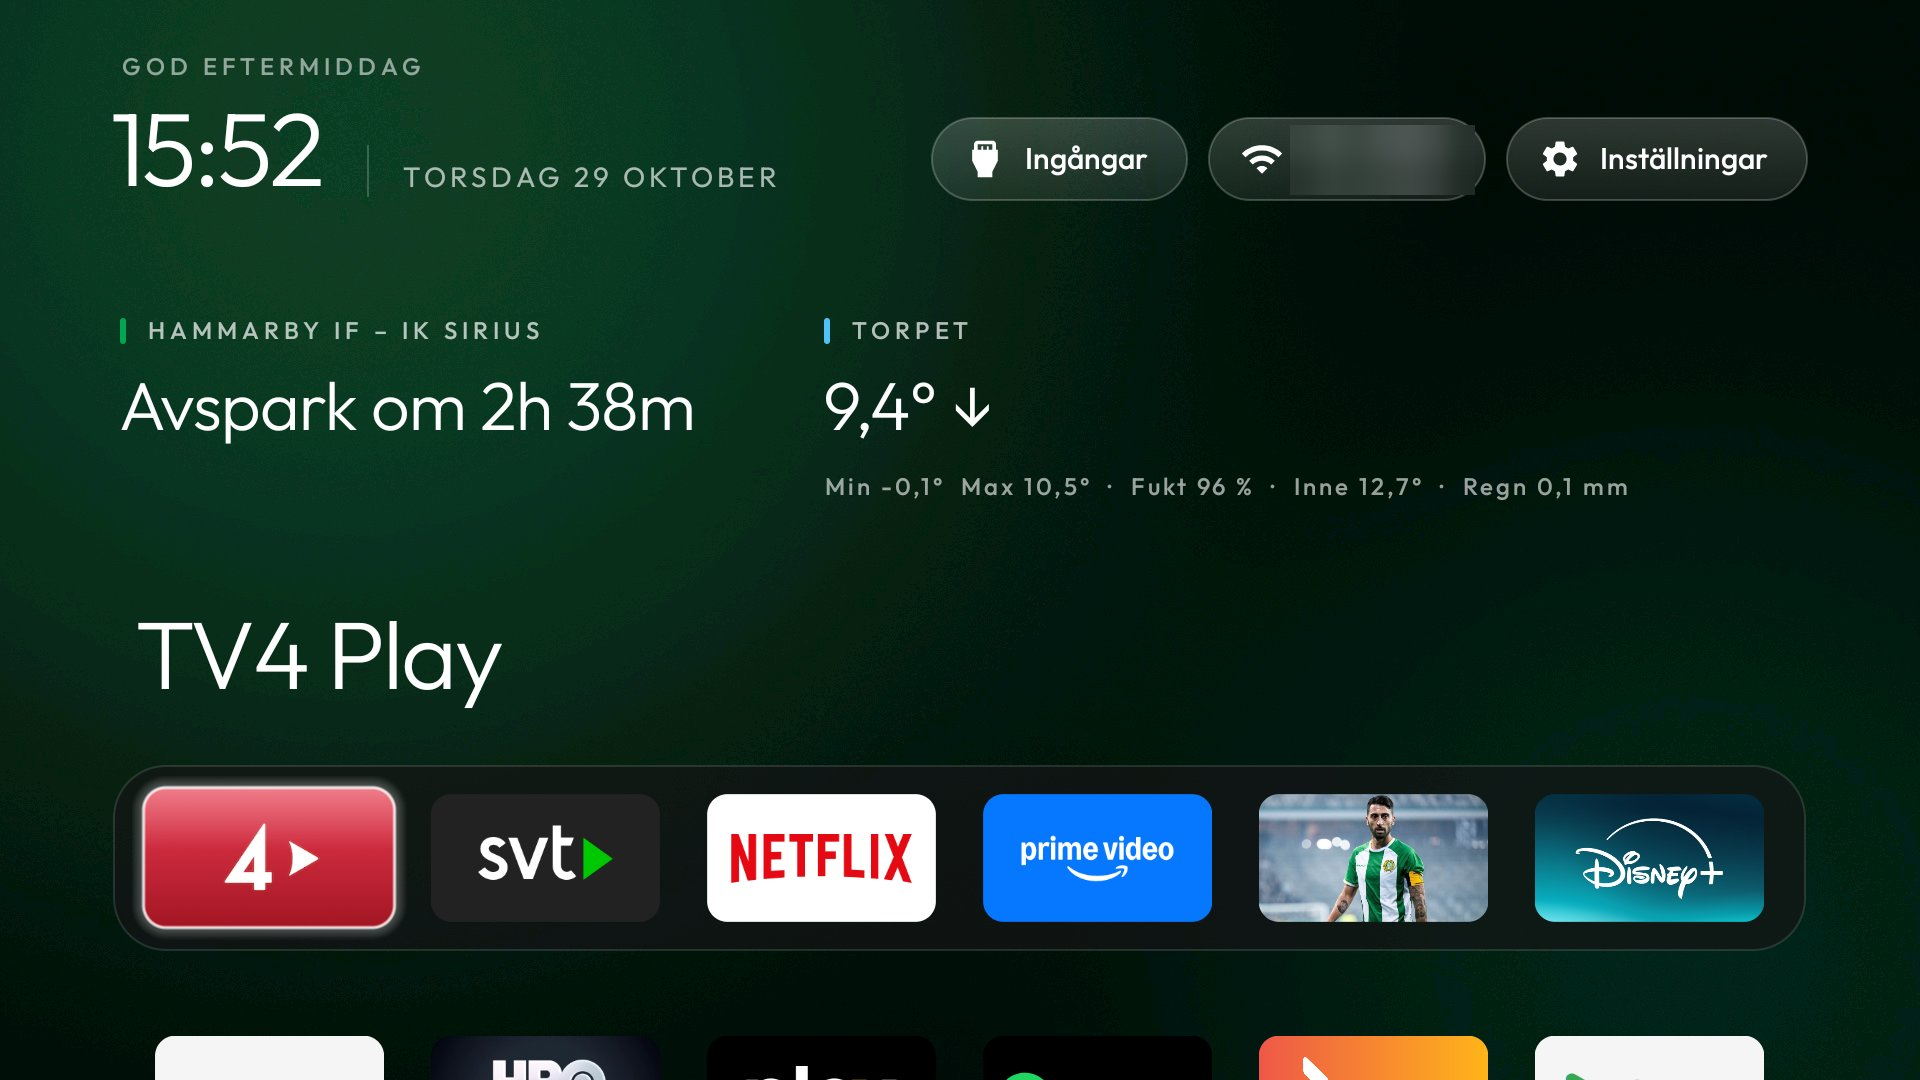
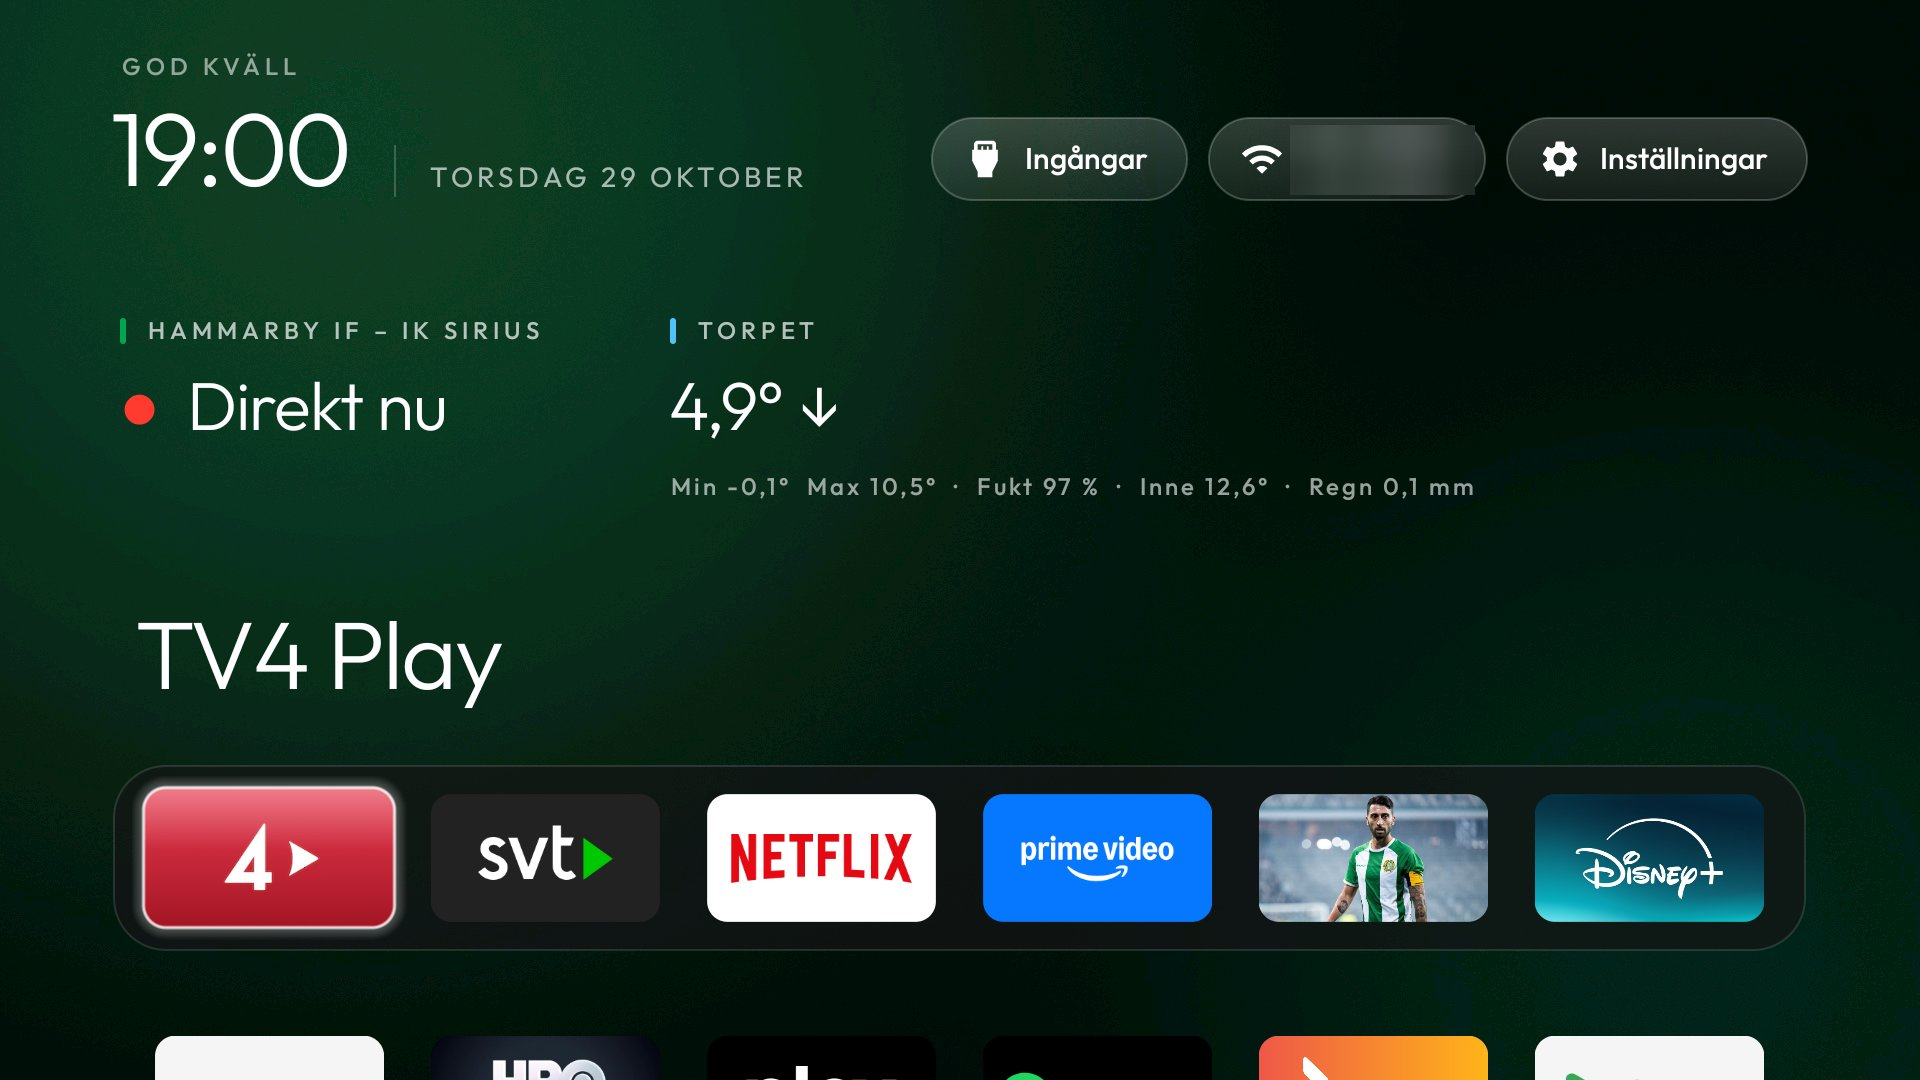
README: nya skärmdumpar, under Hammarby–Sirius
Tagna kl. 19.00 medan matchen pågick: "Pågår nu!" i skärmsläckaren och
"Direkt nu" på Home, ett gult kort medan AIK ramlar, och Polisens notis
ovanpå Home. Wi-Fi-namnet är suddat.

diff --git a/README.md b/README.md
@@ -36,7 +36,7 @@ Allt rör sig hela tiden, så inget bränns in.
 
 ![Skärmsläckaren: domaren med klockan, Hammarbys och AIK:s nästa match](shots/skarmslackare.jpg)
 
-![Domaren visar gult kort](shots/skarmslackare-gult-kort.jpg)
+![Domaren visar gult kort medan AIK ramlar](shots/skarmslackare-gult-kort.jpg)
 
 ### Home-panelerna
 
@@ -64,7 +64,7 @@ som syns:
 Varje händelse visas en gång. Notisen tar aldrig fokus, så fjärrkontrollen styr appen under som vanligt. VMA går
 före Polisen. Tjänsten startar när TV:n startar och när skärmsläckaren, appen eller Home-panelen används.
 
-![En notis från Polisen nere till höger, här ovanpå skärmsläckaren](shots/notis-polisen.jpg)
+![En notis från Polisen nere till höger, ovanpå Home](shots/notis-polisen.jpg)
 
 ### Appen
 
